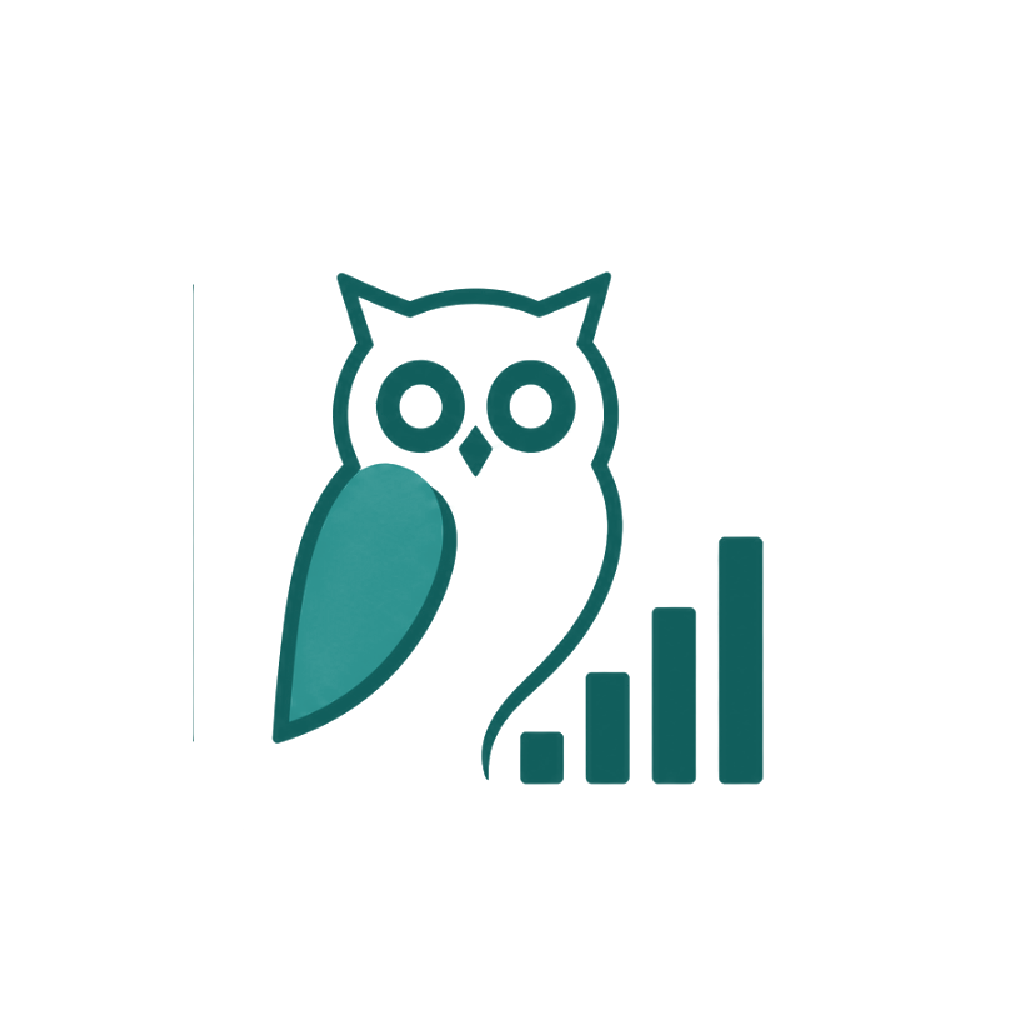
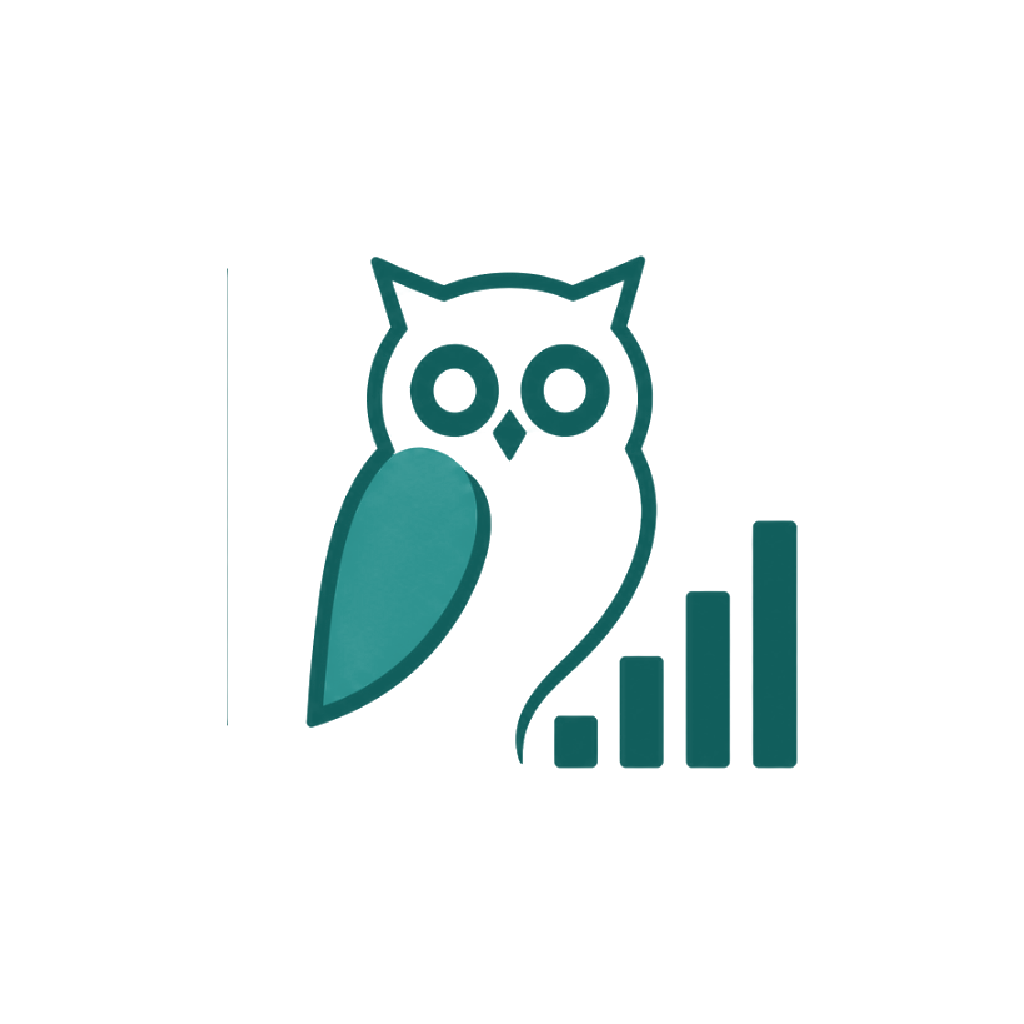
fix(mobile): スプラッシュの図柄を整え、記帳ボタンを大きくする
スプラッシュの図柄が「右下で切れている」ように見えていた。原因は2つ。

図柄が中心からずれていた（余白は上62に対し下36）。背景を抜いて単独で
置くと下端に寄り、切れて見える。拡大縮小はせず平行移動だけで中央へ
寄せる（再標本化で輪郭が甘くなるのを避ける）。

棒グラフの角丸は元のアイコンのデザインで、四隅とも丸い。小さいアイコン
では気にならないが、大きく出すと下端の丸みが切れ端に見える。スプラッシュ
だけ下端を四角にした。上端の丸みは残す。全部四角にすると元の図柄から
離れすぎる。アイコン本体には掛けない。掛けると Web 版と形が食い違う。

中央の記帳ボタンを 55px から 64px へ。帯からの出方を保つため引き上げ
幅も合わせる。

引っ張って更新は、未ログインなら黙って終える。送る先が無いことを引く
たびに知らせても、アカウントを使わない人には邪魔でしかない。

Claude-Session: https://claude.ai/code/session_01KGzQxG7QB5p8CK713xKc9i

Changed region(s): [[0.25, 0.25, 0.7812, 0.7812]]

diff --git a/mobile/src/components/TabBar.jsx b/mobile/src/components/TabBar.jsx
@@ -61,18 +61,18 @@ export default function TabBar({ state, descriptors, navigation }) {
       }}>
         {routes.slice(0, half).map(tab)}
 
-        <View style={{ width: 72, alignItems: 'center' }}>
+        <View style={{ width: 80, alignItems: 'center' }}>
           <TouchableOpacity
             accessibilityRole="button"
             accessibilityLabel="記帳する"
             onPress={() => navigation.navigate(ENTRY_ROUTE)}
             style={[{
-              width: 55, height: 55, borderRadius: 28, marginTop: -19,
+              width: 64, height: 64, borderRadius: 32, marginTop: -23,
               backgroundColor: state.index === entryIndex ? t.acDeep : t.ac,
               alignItems: 'center', justifyContent: 'center',
             }, t.shadow]}
           >
-            <Ionicons name="add" size={29} color={t.acTx} />
+            <Ionicons name="add" size={34} color={t.acTx} />
           </TouchableOpacity>
         </View>
 

diff --git a/mobile/src/store/useSyncRefresh.jsx b/mobile/src/store/useSyncRefresh.jsx
@@ -23,11 +23,9 @@ export function useSyncRefresh() {
   const [refreshing, setRefreshing] = useState(false);
 
   const onRefresh = useCallback(async () => {
-    if (!signedIn) {
-      Alert.alert('同期先がありません',
-        'アカウントに接続すると、帳簿がサーバーにも保存され、他の端末から見られるようになります。');
-      return;
-    }
+    // 未ログインなら送る先が無い。知らせる必要も無いので黙って終える。
+    // 引っ張るたびに知らせると、アカウントを使わない人には邪魔でしかない。
+    if (!signedIn) return;
     setRefreshing(true);
     try {
       await sync();
